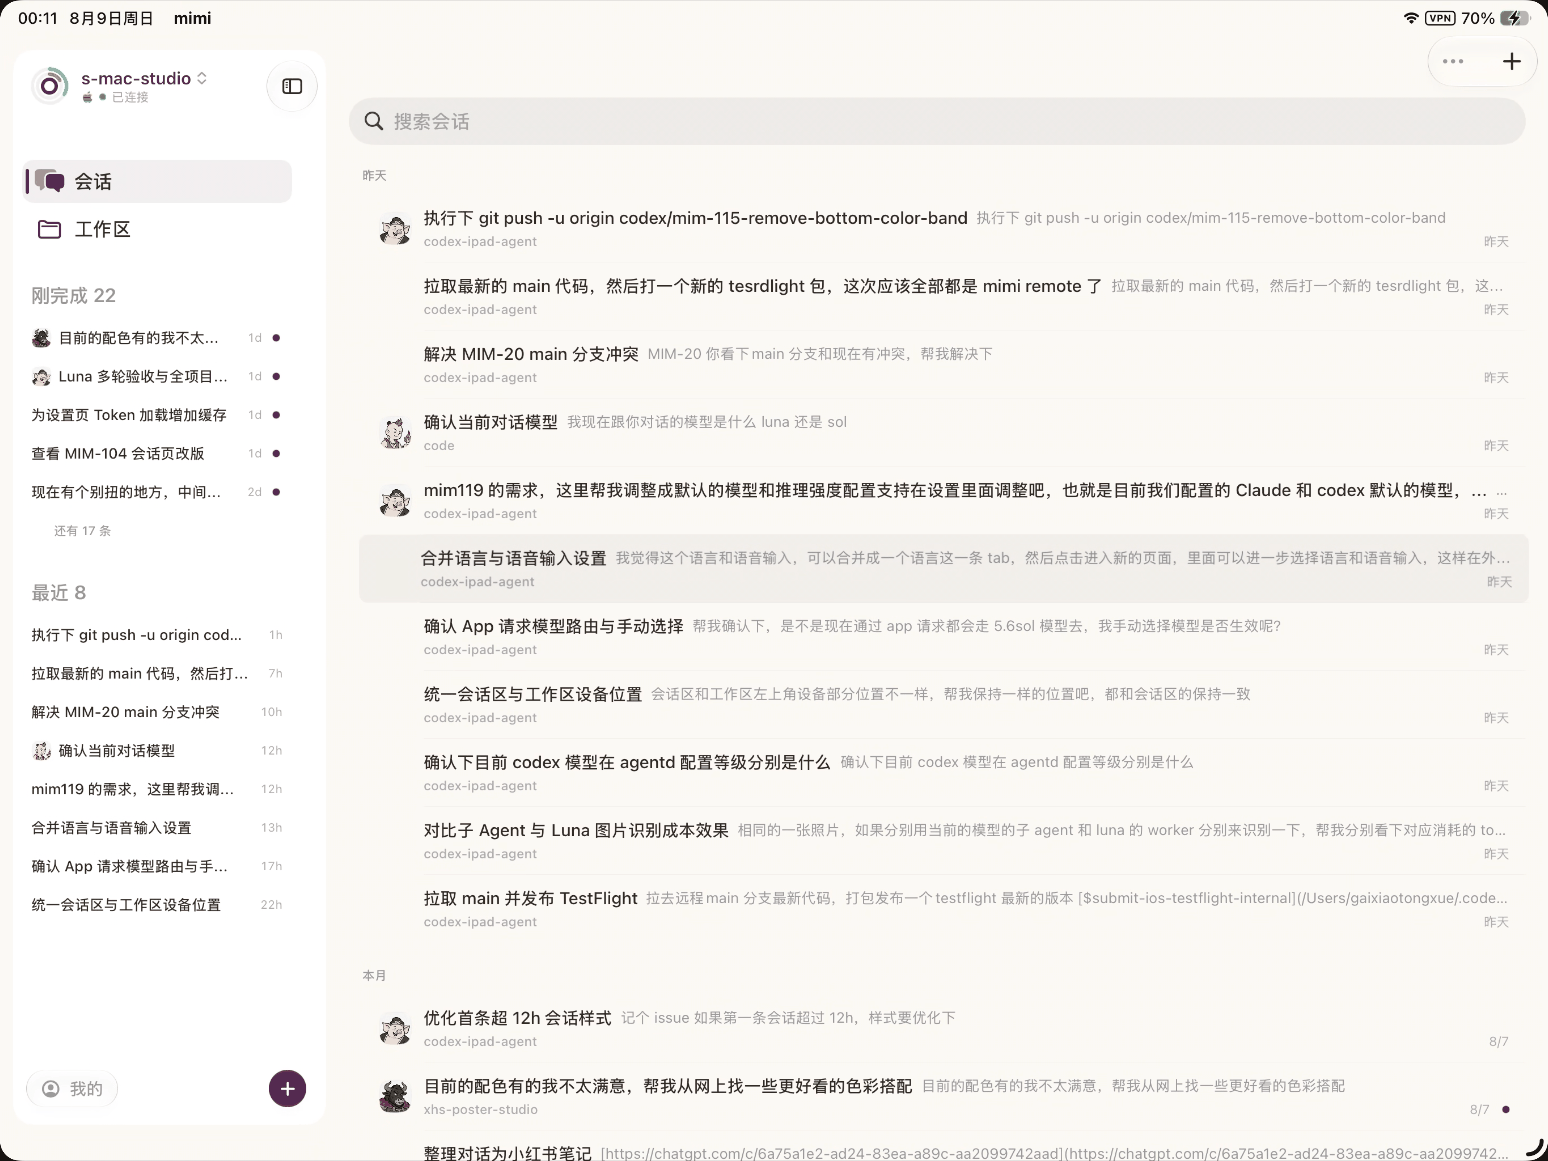
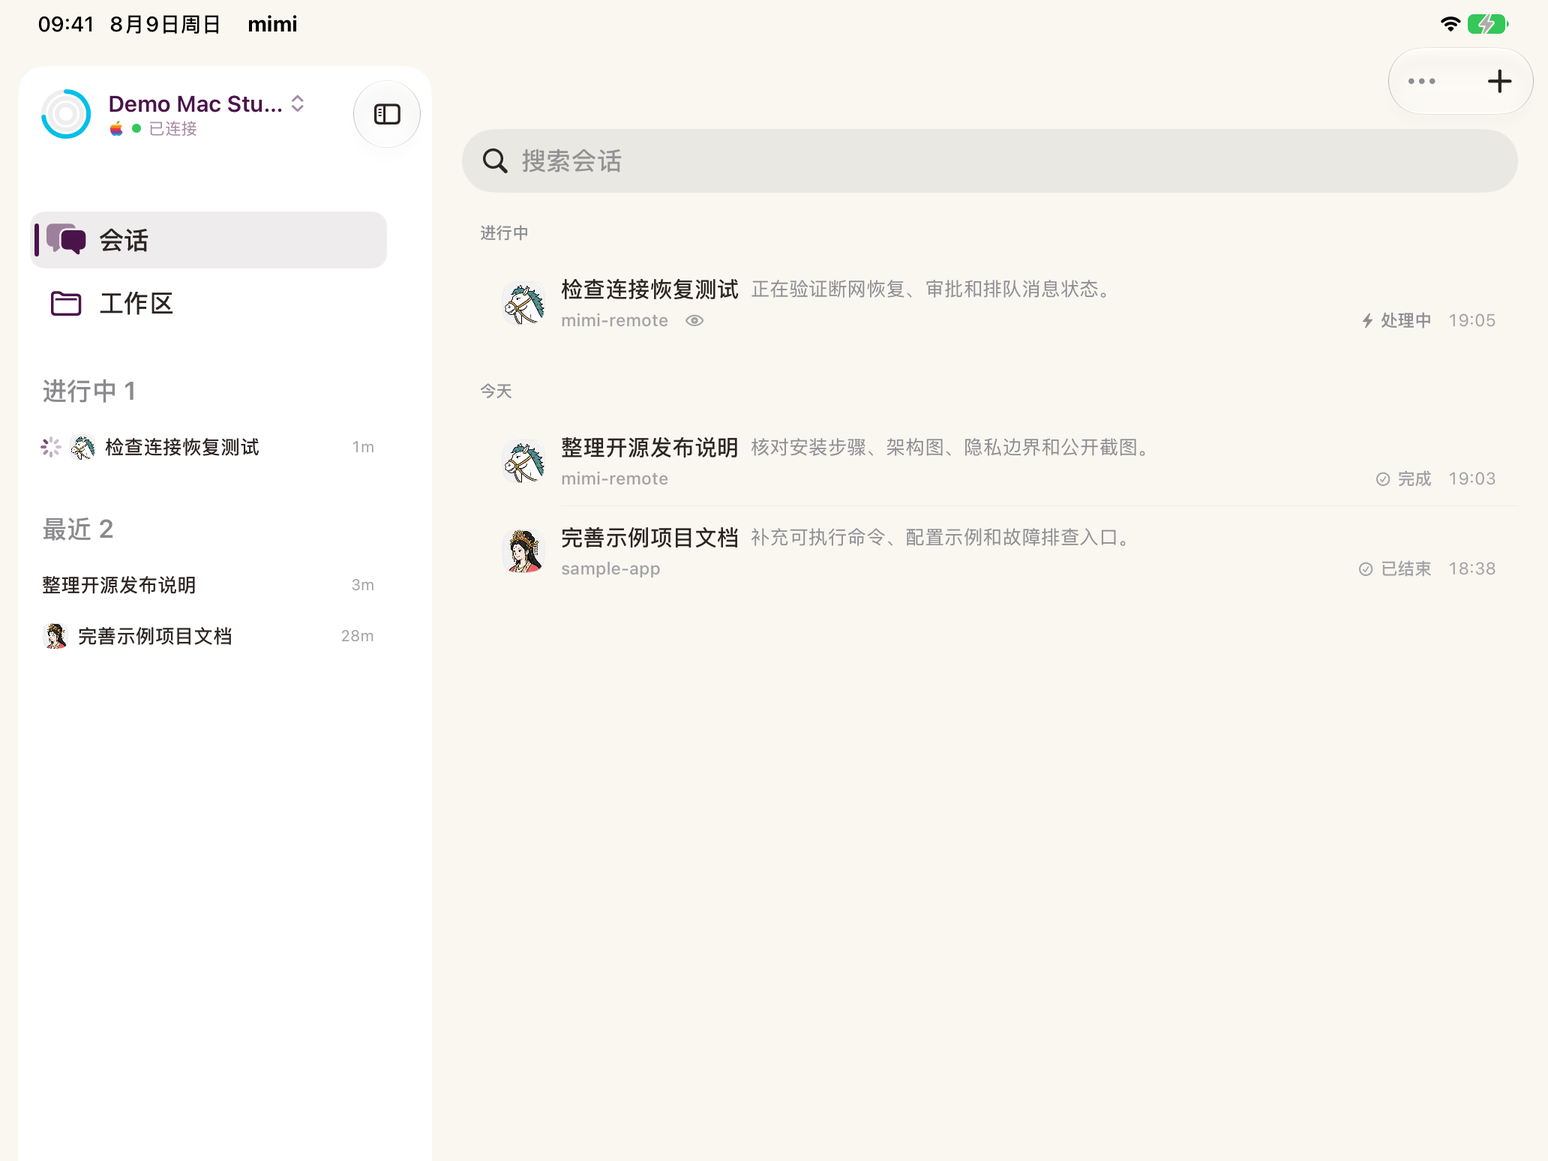
MIM-127: 使用演示数据重拍 README 截图

diff --git a/README.md b/README.md
@@ -66,7 +66,7 @@ Mimi Remote is an independent third-party project. It is not affiliated with, en
   </tr>
 </table>
 
-These images reuse the current capture set from [`web/assets`](web/assets), covering the workspace and session hierarchy across iPhone and iPad. The captured interface uses the Simplified Chinese localization; the app also supports English. Keeping one checked-in image set prevents the website and README from drifting apart again.
+These images reuse the current capture set from [`web/assets`](web/assets), covering the workspace and session hierarchy across iPhone and iPad. They were captured from Debug-only seeded UI with demo hosts, projects, sessions, paths, and usage values—never a maintainer's live workspace or credentials. The interface uses the Simplified Chinese localization; the app also supports English. Keeping one checked-in image set prevents the website and README from drifting apart again.
 
 ## Leave the desk, not the flow
 
@@ -128,7 +128,7 @@ The hierarchy is intentional:
 - **Show state before action:** connection health, runtime readiness, remaining quota, and permission mode are visible before controls that can change or interrupt work.
 - **Use each platform natively:** compact touch hierarchy on iPhone, multi-column workbench on iPad, and a dense menu bar utility on Mac — not one layout stretched across three screens.
 
-The mobile images above are the same current assets used by the Mimi Remote website. The Mac menu image uses the same source tree with Debug-only seeded UI and the public `mimi-demo.local` hostname; capturing it did not restart or replace the installed Mac service.
+The mobile images above are the same current assets used by the Mimi Remote website and come exclusively from Debug-only seeded UI. The Mac menu image uses the same source tree and the public `mimi-demo.local` hostname; capturing it did not restart or replace the installed Mac service. None of these public screenshots contains a real token, private address, personal path, or live project content.
 
 ## Architecture
 
